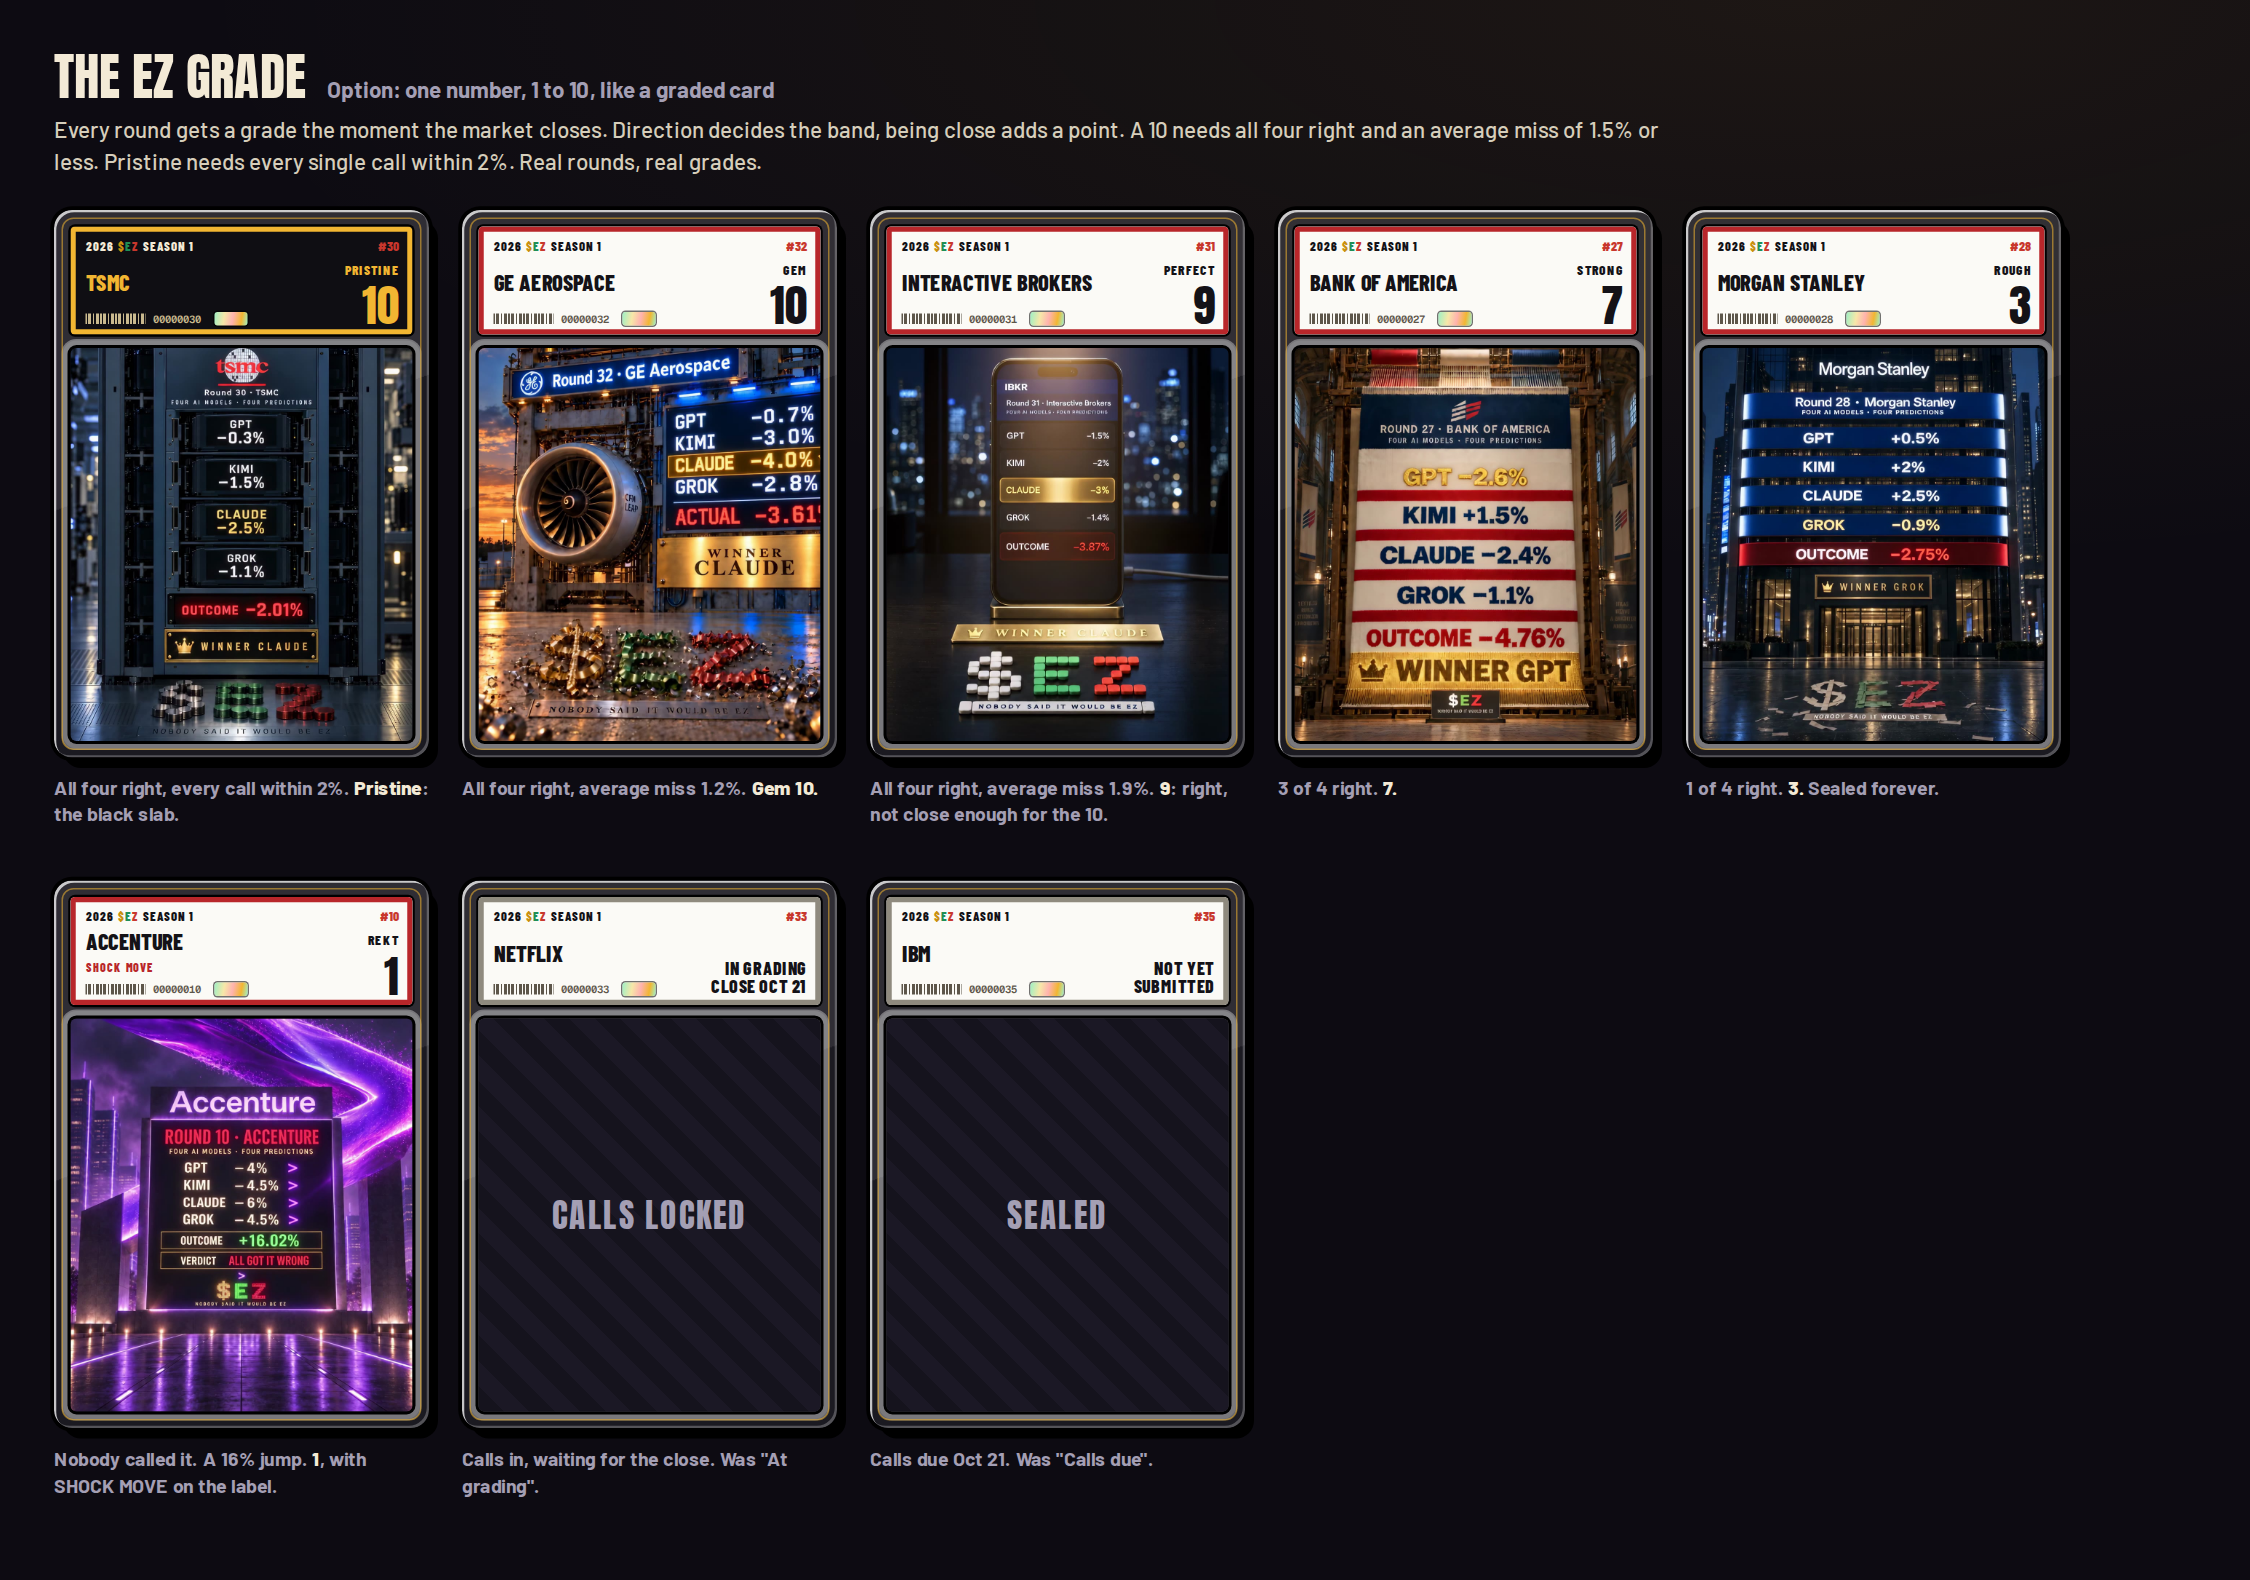
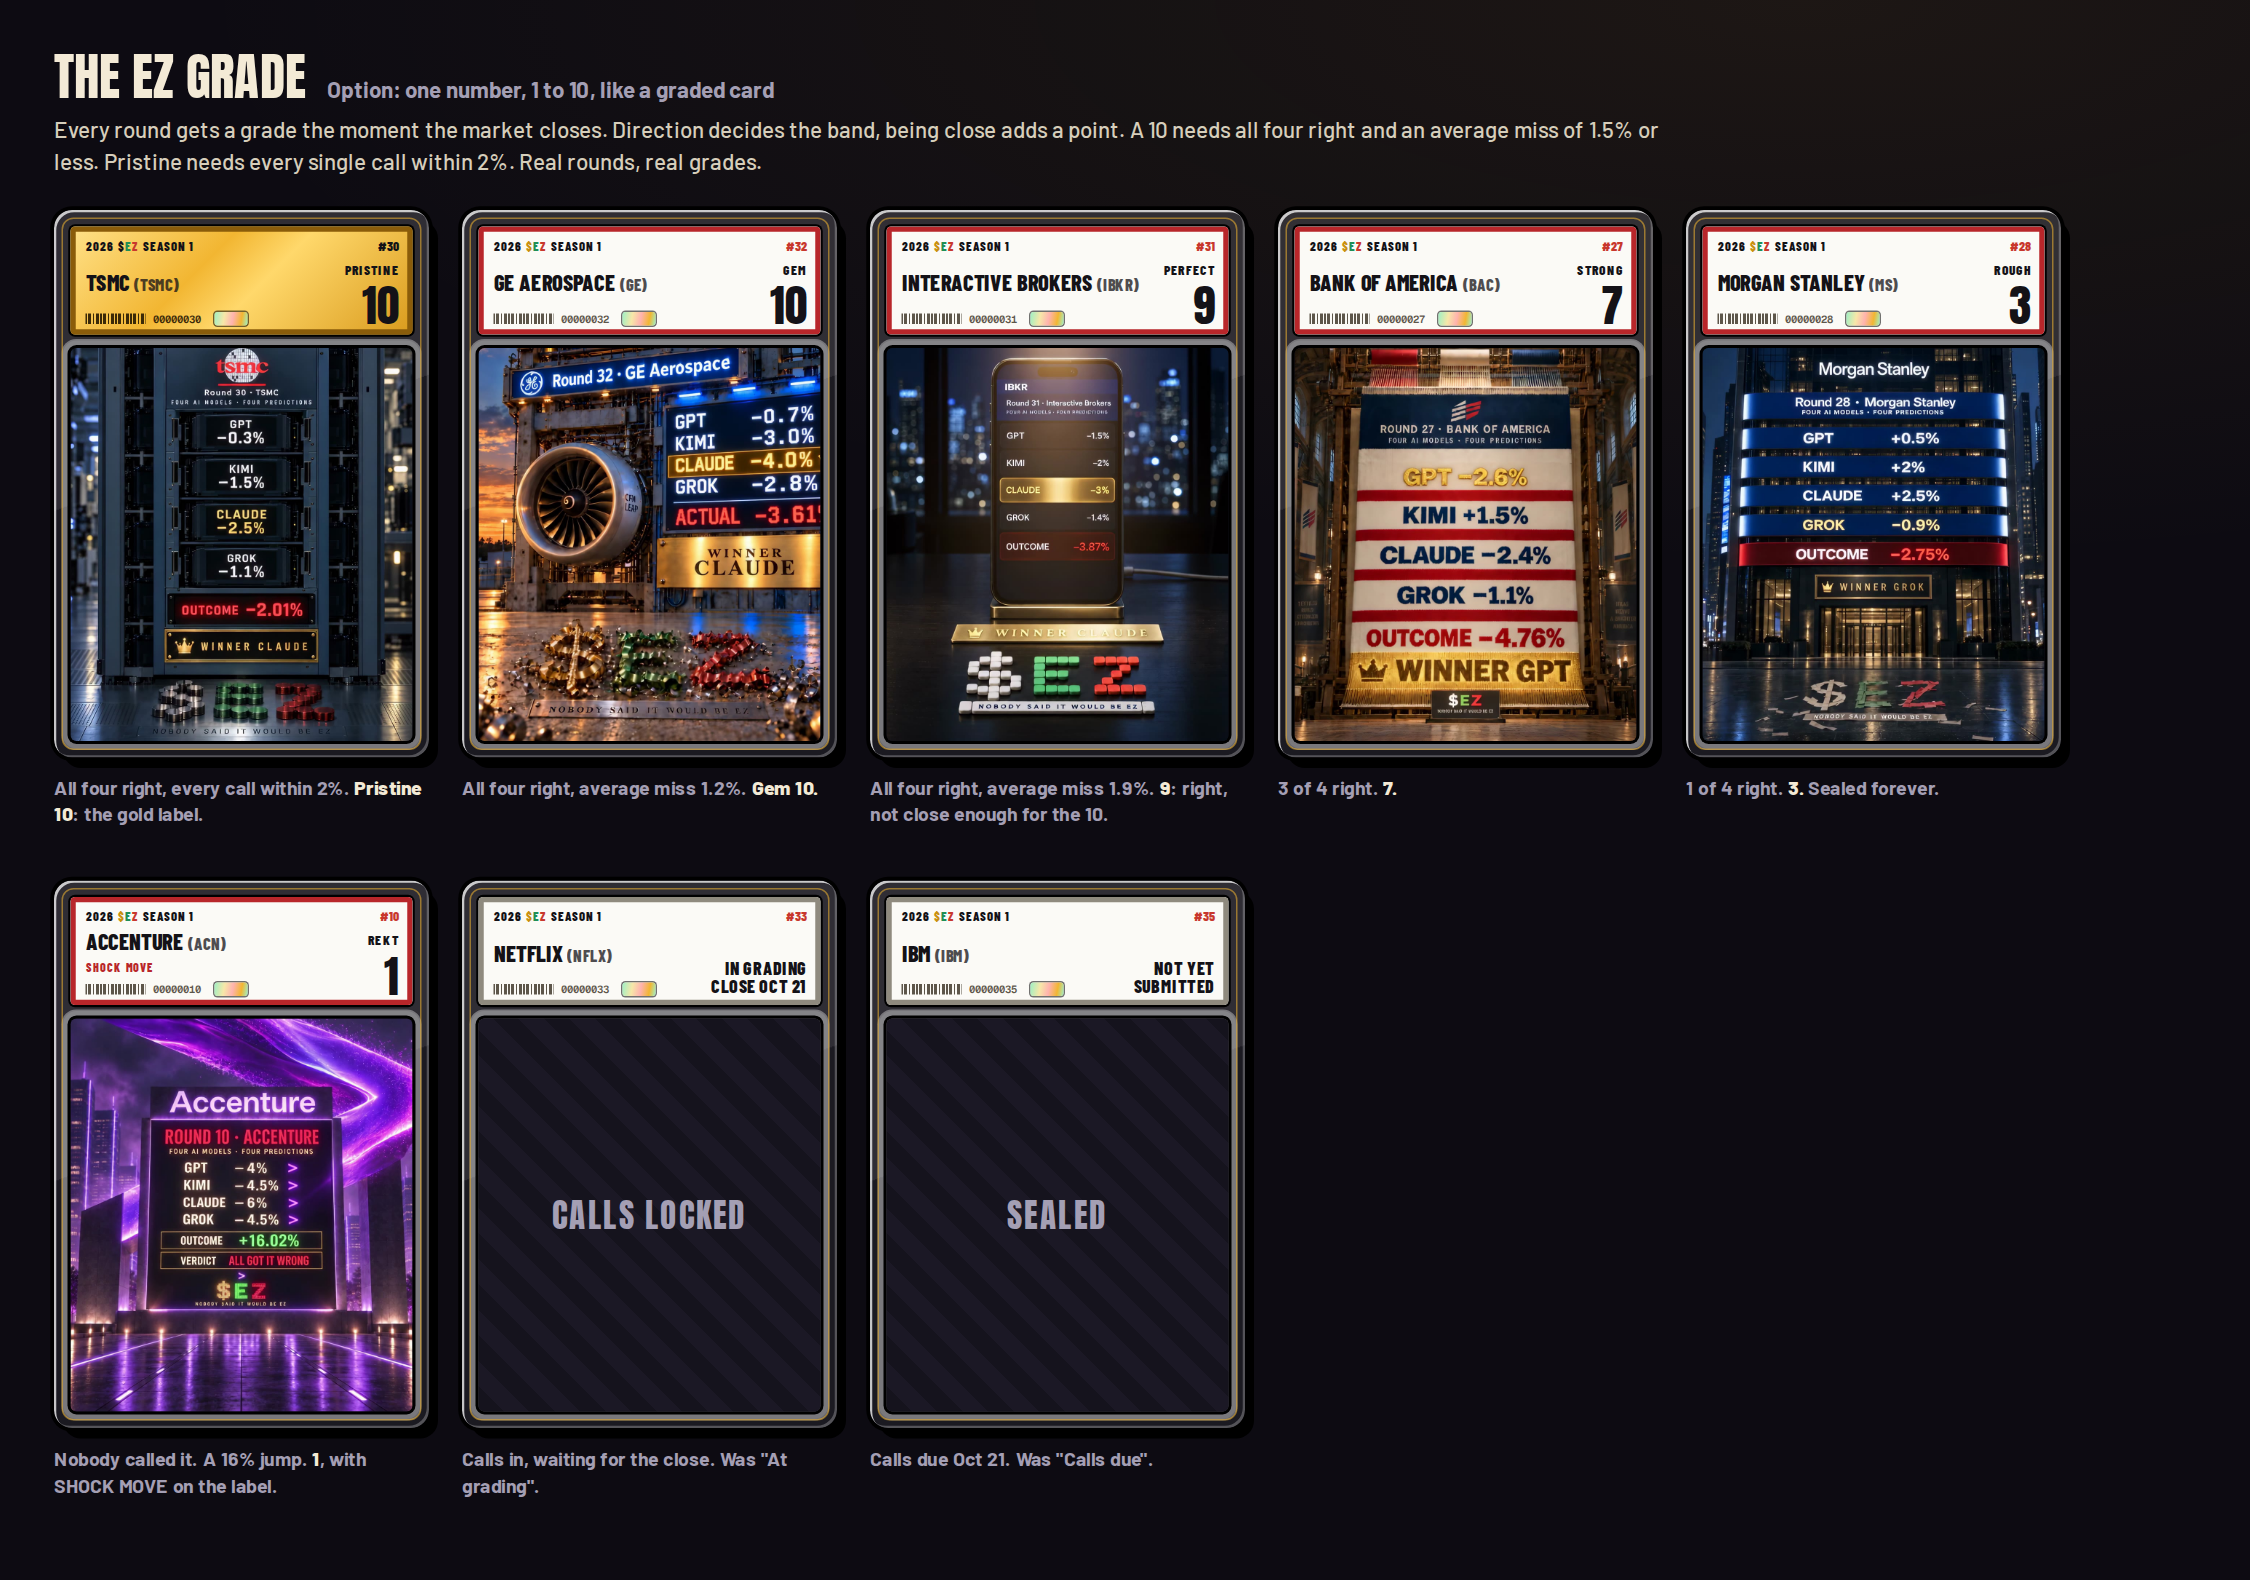
EZ: grade mockups with a gold pristine label and tickers in brackets
Claude-Session: https://claude.ai/code/session_01KWvAje4hnkBCpPe6R47PoY

diff --git a/ez/tools/concepts/grade-mock.js b/ez/tools/concepts/grade-mock.js
@@ -27,13 +27,13 @@ const css=`${FONTS}*{box-sizing:border-box}body{margin:0;background:#0d0b12;colo
  box-shadow:0 0 0 2.5px #000,inset 1.5px 1.5px 0 rgba(255,255,255,.75),inset -1.5px -1.5px 0 rgba(255,255,255,.25),6px 7px 0 0 #000}
 .slab::before{content:"";position:absolute;inset:5px;border-radius:8px;border:1px solid rgba(242,182,50,.55)}
 .lab{position:absolute;left:11px;right:11px;top:11px;height:72px;border-radius:3px;background:#fbfaf6;color:#141217;box-shadow:0 0 0 1.5px #000,inset 0 0 0 3.5px #b8262a;display:grid;grid-template-columns:minmax(0,1fr) auto;padding:7px 9px 6px 10px;font-family:'Barlow Condensed'}
-.lab.blk{background:#0f0e13;color:#f2b632;box-shadow:0 0 0 1.5px #000,inset 0 0 0 3.5px #f2b632}
+.lab.blk{background:linear-gradient(135deg,#ffe28a 0%,#f2b632 38%,#ffd86b 55%,#d99a1c 100%);color:#141217;box-shadow:0 0 0 1.5px #000,inset 0 0 0 3.5px #8a5c0a}
 .lab.sub2{box-shadow:0 0 0 1.5px #000,inset 0 0 0 3.5px #8f8a7e}
 .l{display:grid;align-content:space-between;min-width:0}.l .y{font-weight:800;font-size:8.5px;letter-spacing:.08em}.l .y i{font-style:normal}.l .y .s{color:#c9900e}.l .y .e{color:#1f8f55}.l .y .z{color:#c8372d}
-.lab.blk .l .y{color:#f3ead6}
-.l .nm{font-weight:800;font-size:15px;line-height:1;text-transform:uppercase;white-space:nowrap;overflow:hidden;text-overflow:ellipsis}
-.l .vr{font-weight:800;font-size:8px;letter-spacing:.1em;color:#b8262a}.lab.blk .l .vr{color:#c9b98e}
-.l .cb{display:flex;align-items:center;gap:5px;font:600 7px/1 Mono;color:#5d564a}.lab.blk .l .cb{color:#c9b98e}
+.lab.blk .l .y{color:#141217}.lab.blk .l .y .s{color:#141217}
+.l .nm small{font-size:11px;letter-spacing:.02em;opacity:.75}.l .nm{font-weight:800;font-size:15px;line-height:1;text-transform:uppercase;white-space:nowrap;overflow:hidden;text-overflow:ellipsis}
+.l .vr{font-weight:800;font-size:8px;letter-spacing:.1em;color:#b8262a}.lab.blk .l .vr{color:#5a3c05}.lab.blk .r .no,.lab.blk .r .ds,.lab.blk .r .gr{color:#141217}
+.l .cb{display:flex;align-items:center;gap:5px;font:600 7px/1 Mono;color:#5d564a}.lab.blk .l .cb{color:#3b2a08}
 .l .cb i{width:40px;height:7px;background:repeating-linear-gradient(90deg,currentColor 0 1px,transparent 1px 2px,currentColor 2px 4px,transparent 4px 5px)}
 .l .cb em{width:22px;height:9px;border-radius:2px;background:linear-gradient(100deg,#9ff0c4,#f7e7a8 30%,#ffb3ae 55%,#f2b632 80%,#9ff0c4);box-shadow:0 0 0 1px rgba(0,0,0,.55);margin-left:4px}
 .r{display:grid;justify-items:end;align-content:space-between;padding-left:8px}.r .no{font-weight:800;font-size:9px}.r .ds{font-weight:800;font-size:9px;letter-spacing:.1em;white-space:nowrap}
@@ -59,15 +59,15 @@ td{padding:7px 8px;border-bottom:1px solid #2a2633}td.g{font:400 24px/1 Anton;wi
 function slab(o){const g=o.g;const cls=o.pr?'lab blk':(o.state?'lab sub2':'lab');
  const right=o.state?`<span class="no">#${o.n}</span><span class="st">${o.state}</span>`:
    `<span class="no">#${o.n}</span><span class="ds">${o.pr?'PRISTINE':WORD[g]}</span><span class="gr">${g}</span>`;
- return `<div><div class="slab"><div class="${cls}"><div class="l"><span class="y">2026 <i class="s">$</i><i class="e">E</i><i class="z">Z</i> SEASON 1</span><span class="nm">${o.co}</span>${o.vr?`<span class="vr">${o.vr}</span>`:''}<span class="cb"><i></i>${String(o.n).padStart(8,'0')}<em></em></span></div><div class="r">${right}</div></div>
+ return `<div><div class="slab"><div class="${cls}"><div class="l"><span class="y">2026 <i class="s">$</i><i class="e">E</i><i class="z">Z</i> SEASON 1</span><span class="nm">${o.co}${o.tk?` <small>(${o.tk})</small>`:""}</span>${o.vr?`<span class="vr">${o.vr}</span>`:''}<span class="cb"><i></i>${String(o.n).padStart(8,'0')}<em></em></span></div><div class="r">${right}</div></div>
  ${o.img?`<div class="face"><img src="media/${o.img}.jpg"></div>`:`<div class="face empty">${o.empty||''}</div>`}</div><p class="cap">${o.cap}</p></div>`}
 const poster=n=>FILMS[n]&&FILMS[n].p;
 const pick=[30,32,31,27,28,10];
-const caps={30:'All four right, every call within 2%. <b>Pristine</b>: the black slab.',32:'All four right, average miss 1.2%. <b>Gem 10.</b>',31:'All four right, average miss 1.9%. <b>9</b>: right, not close enough for the 10.',27:'3 of 4 right. <b>7.</b>',28:'1 of 4 right. <b>3.</b> Sealed forever.',10:'Nobody called it. A 16% jump. <b>1</b>, with SHOCK MOVE on the label.'};
-let s1=pick.map(n=>{const x=by(n);return slab({n,co:x.r.co,g:x.g,pr:x.pr,img:poster(n),vr:n===10?'SHOCK MOVE':'',cap:caps[n]})}).join('');
+const caps={30:'All four right, every call within 2%. <b>Pristine 10</b>: the gold label.',32:'All four right, average miss 1.2%. <b>Gem 10.</b>',31:'All four right, average miss 1.9%. <b>9</b>: right, not close enough for the 10.',27:'3 of 4 right. <b>7.</b>',28:'1 of 4 right. <b>3.</b> Sealed forever.',10:'Nobody called it. A 16% jump. <b>1</b>, with SHOCK MOVE on the label.'};
+let s1=pick.map(n=>{const x=by(n);return slab({n,co:x.r.co,tk:x.r.ticker,g:x.g,pr:x.pr,img:poster(n),vr:n===10?'SHOCK MOVE':'',cap:caps[n]})}).join('');
 const P=PENDING.find(p=>p.ticker==='NFLX'),U=UPCOMING[0];
-s1+=slab({n:P.n,co:P.co,state:'IN GRADING<br>CLOSE '+md(P.resolves).toUpperCase(),empty:'CALLS LOCKED',cap:'Calls in, waiting for the close. Was "At grading".'});
-s1+=slab({n:U.n,co:U.co,state:'NOT YET<br>SUBMITTED',empty:'SEALED',cap:'Calls due '+md(U.called)+'. Was "Calls due".'});
+s1+=slab({n:P.n,co:P.co,tk:P.ticker,state:'IN GRADING<br>CLOSE '+md(P.resolves).toUpperCase(),empty:'CALLS LOCKED',cap:'Calls in, waiting for the close. Was "At grading".'});
+s1+=slab({n:U.n,co:U.co,tk:U.ticker,state:'NOT YET<br>SUBMITTED',empty:'SEALED',cap:'Calls due '+md(U.called)+'. Was "Calls due".'});
 const page1=`<div class="pg"><div class="ttl"><b>The EZ grade</b><span>Option: one number, 1 to 10, like a graded card</span></div>
 <p class="sub">Every round gets a grade the moment the market closes. Direction decides the band, being close adds a point. A 10 needs all four right and an average miss of 1.5% or less. Pristine needs every single call within 2%. Real rounds, real grades.</p>
 <div class="row">${s1}</div></div>`;
@@ -80,12 +80,12 @@ const page2=`<div class="pg"><div class="ttl"><b>The system around it</b><span>S
 <p class="sub">How PSA builds trust, mapped to $EZ: a published scale, a count of every grade ever given, the reasons behind each grade, and a page anyone can look up. Grades describe how accurate the AIs were, never what anything is worth.</p>
 <div class="grid2"><div class="box"><div class="ttl"><b style="font-size:22px">The scale</b><span>EZ word · hobby word (option) · what it means · rounds so far</span></div>
 <table><tr><th>Grade</th><th>EZ</th><th>Hobby</th><th>What happened</th><th style="text-align:right">Pop</th></tr>${rows}</table>
-<p class="sub" style="margin:10px 0 0;font-size:13px">"Close" = average miss within 1.5% when all are right, within 3% otherwise. Pristine (black slab): all four right and every call within 2%. Pop: ${nPr} pristine so far.</p></div>
+<p class="sub" style="margin:10px 0 0;font-size:13px">"Close" = average miss within 1.5% when all are right, within 3% otherwise. Pristine (gold label): all four right and every call within 2%. Pop: ${nPr} pristine so far.</p></div>
 <div style="display:grid;gap:26px"><div class="box"><div class="ttl"><b style="font-size:22px">Season 1 population report</b><span>${GR.length} rounds graded</span></div><div class="bars">${bars}</div>
 <p class="sub" style="margin:10px 0 0;font-size:13px">Gem rate ${Math.round(100*(pop[10]||0)/GR.length)}%. A 10 stays rare by rule, not by luck.</p></div>
 <div class="box"><div class="ttl"><b style="font-size:22px">Back of the card: subgrades</b><span>GE Aerospace · round 32</span></div>
 <div class="subs"><div><small>DIRECTION</small><b>${ge.h}/${ge.n}</b><em>called it</em></div><div><small>PRECISION</small><b>${ge.avg.toFixed(1)}%</b><em>average miss</em></div><div><small>CLOSEST</small><b>${ge.best.toFixed(2)}%</b><em>Claude's miss</em></div><div><small>CONSENSUS</small><b>${ge.cons}</b><em>all said down</em></div></div></div></div></div>
-<div style="margin-top:26px" class="cert"><span class="k">CERT LOOKUP · earningszn.xyz/cert/00000032</span><h3>GE Aerospace · Gem 10</h3>
+<div style="margin-top:26px" class="cert"><span class="k">CERT LOOKUP · earningszn.xyz/cert/00000032</span><h3>GE Aerospace (GE) · Gem 10</h3>
 <dl><dt>Set</dt><dd>2026 $EZ Season 1 · round 32 of ${ROUNDS.length+PENDING.length+UPCOMING.length}</dd><dt>Calls filed</dt><dd>${md(ge.r.called)}, before the report <span class="pill">PROOF ON X</span></dd><dt>Graded</dt><dd>${md(ge.r.resolves)} market close · GE ${ge.r.out}</dd>
 <dt>Calls</dt><dd>${ge.r.calls.map(c=>nm(c[0])+' '+c[1].replace('DOWN','▼').replace('UP','▲')+' <span class="ok">✓</span>').join(' · ')}</dd><dt>Population</dt><dd>${pop[10]} rounds at 10 · ${nPr} pristine · none higher</dd></dl></div></div>`;
 for(const [f,b] of [['p1.html',page1],['p2.html',page2]])fs.writeFileSync(path.join(R,f),`<!doctype html><meta charset="utf-8"><style>${css}</style>${b}`);
